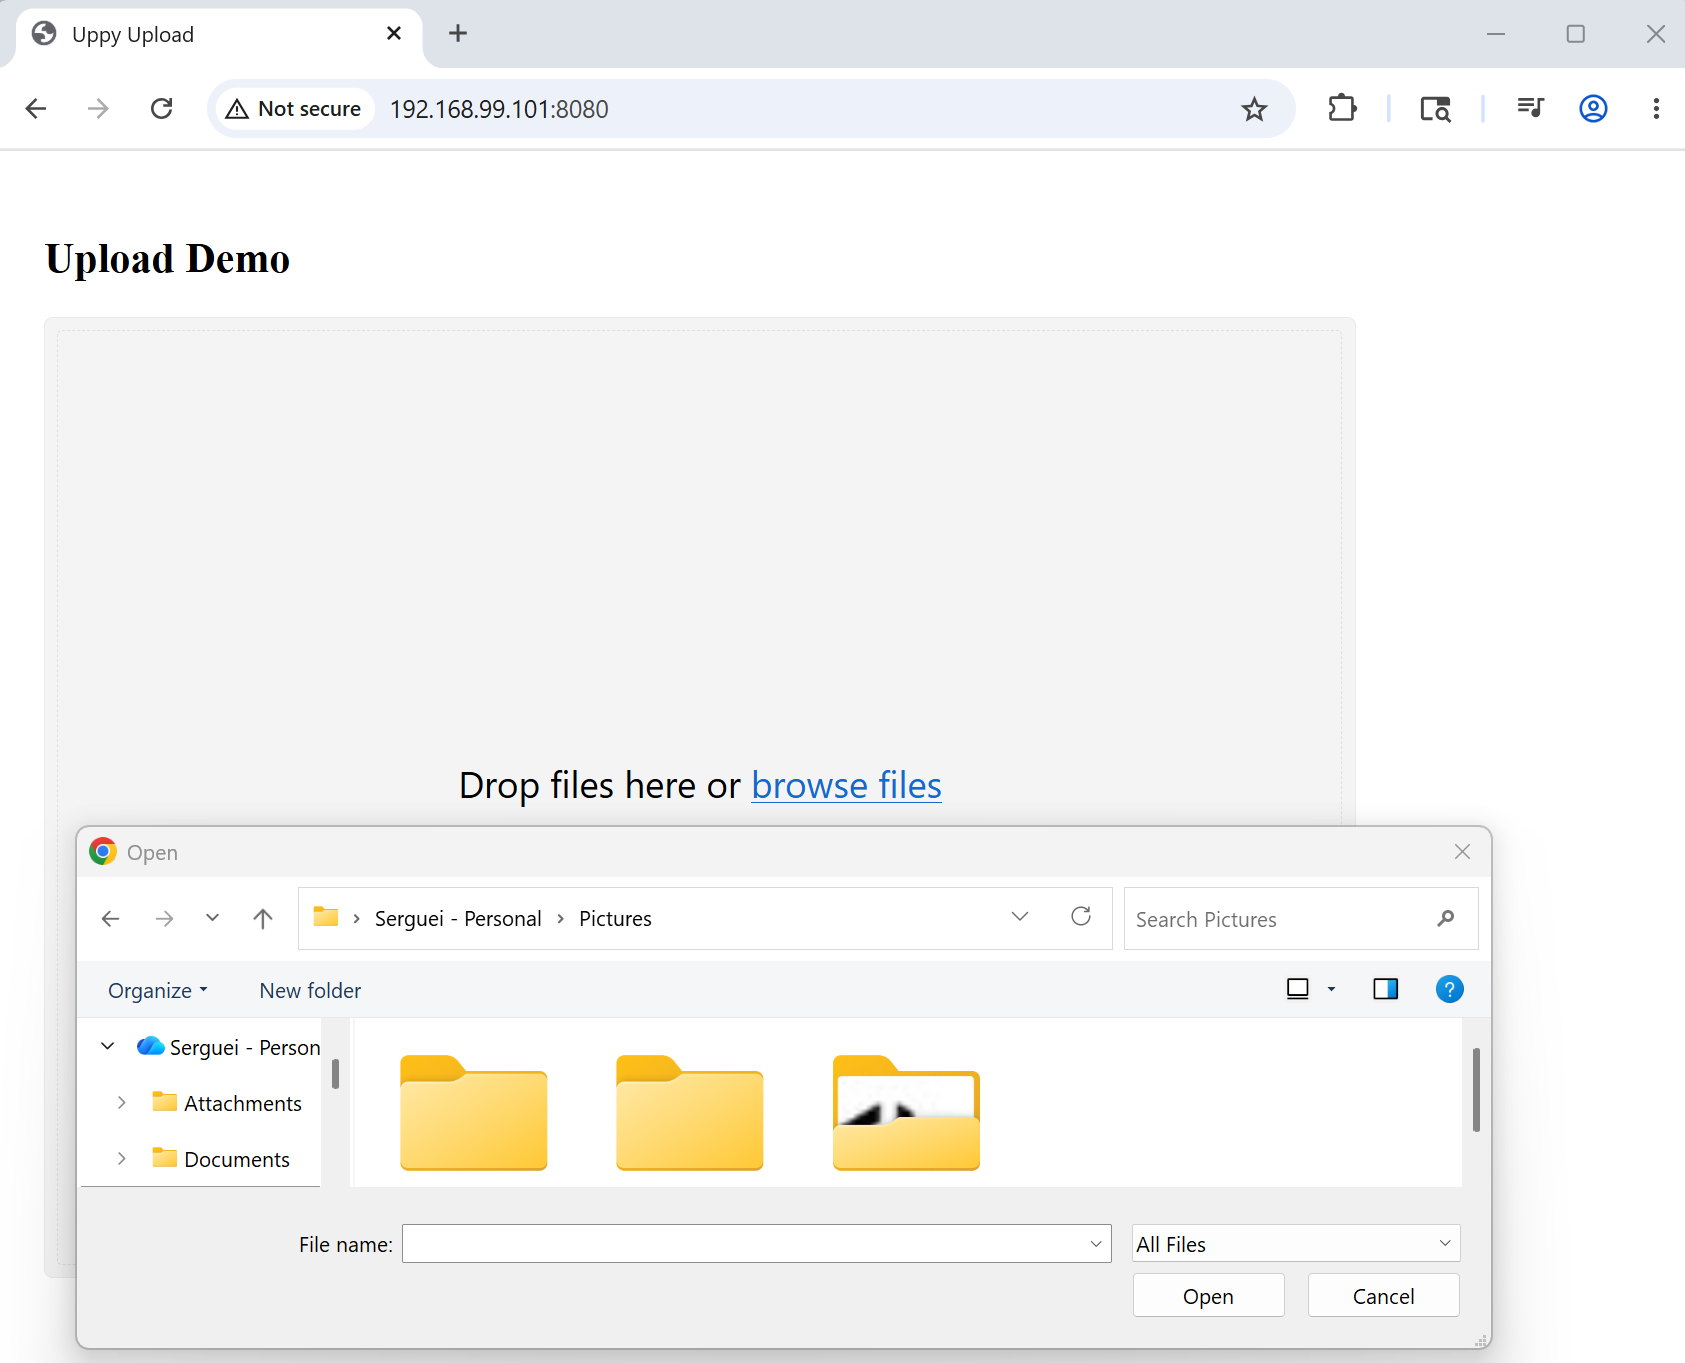
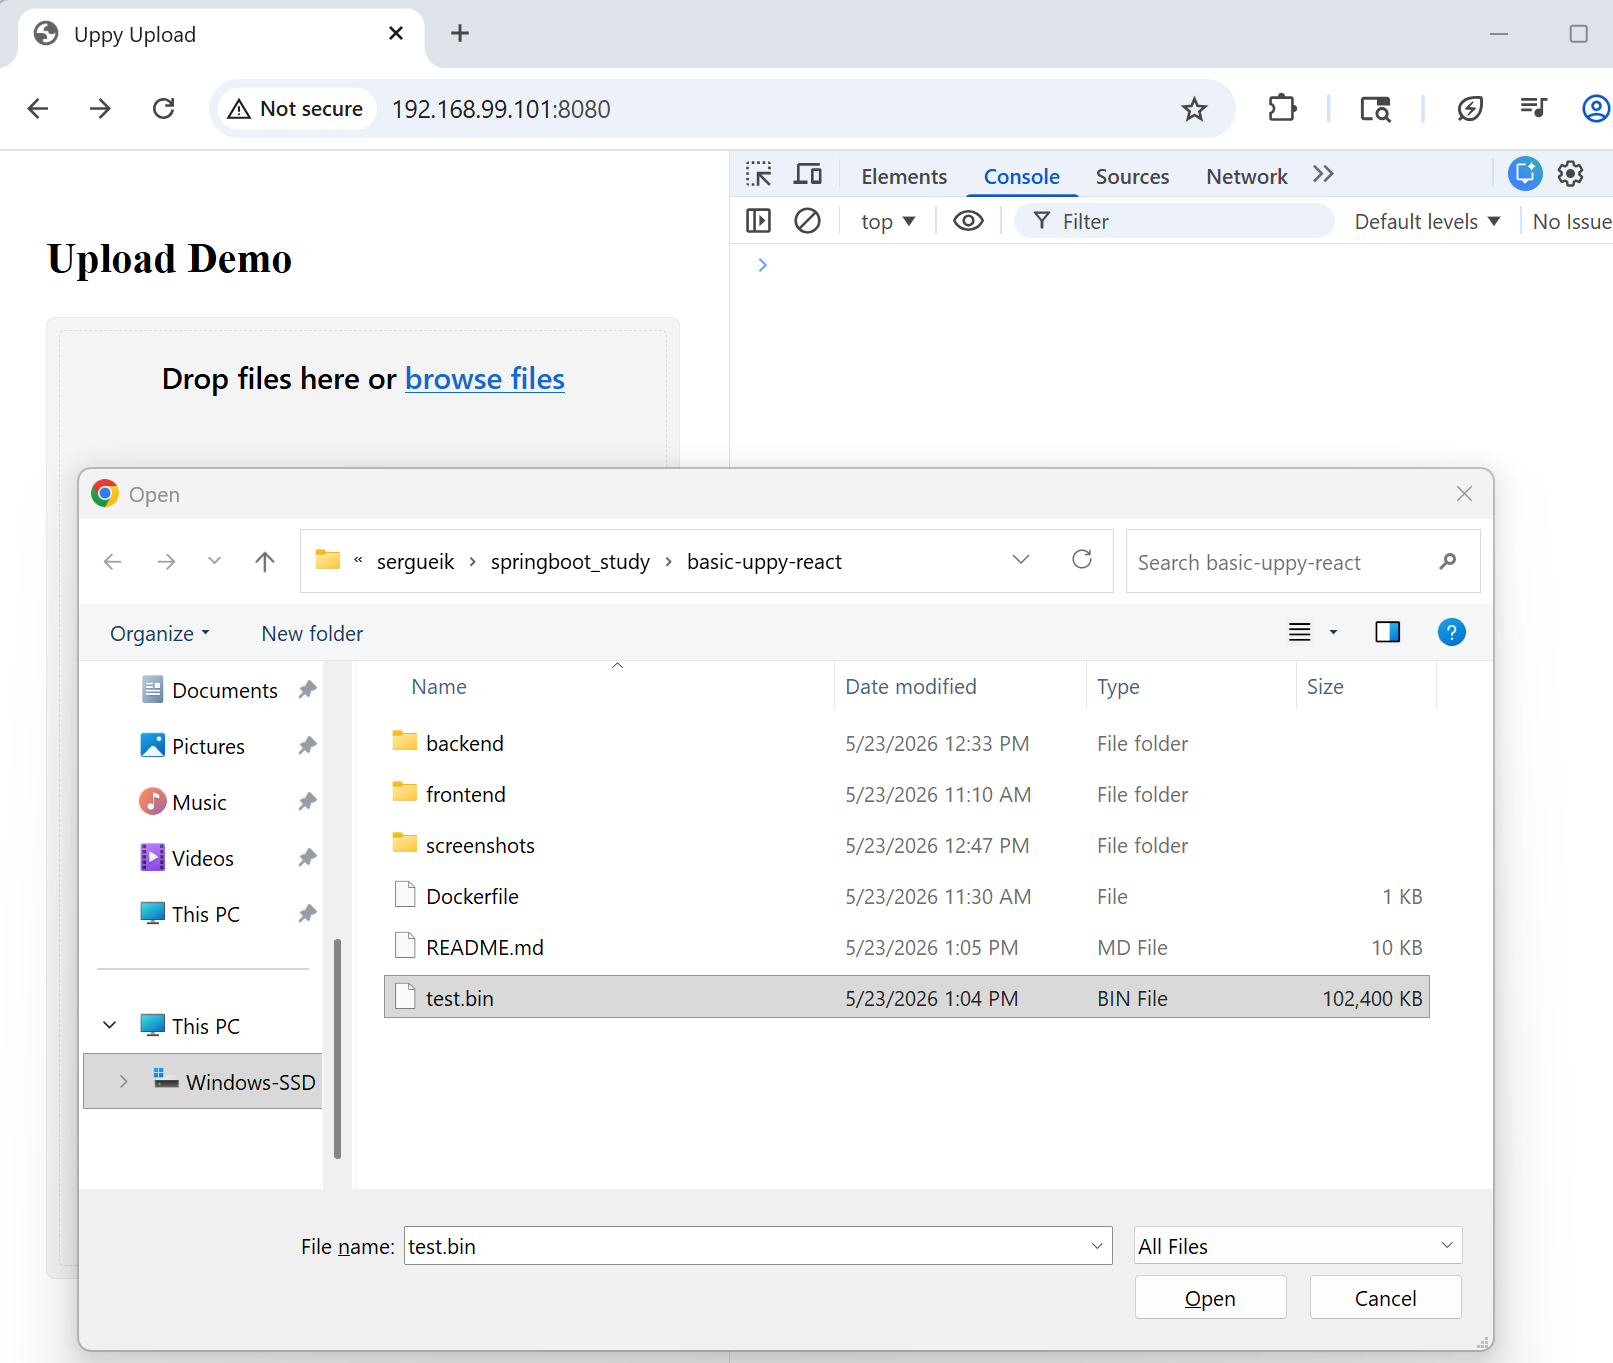
intermediate revision - fixed backend response, added heavy file test step

diff --git a/basic-uppy-react/frontend/src/App.jsx b/basic-uppy-react/frontend/src/App.jsx
@@ -27,7 +27,8 @@ export default function App() {
       endpoint: '/uploadMultipleFiles',
       fieldName: 'files',
       formData: true,
-      bundle: true
+      bundle: true,
+      responseType: 'json'
     })
 
     return () => uppy.destroy()

diff --git a/basic-uppy-react/backend/src/main/java/example/controller/FileUploadController.java b/basic-uppy-react/backend/src/main/java/example/controller/FileUploadController.java
@@ -1,17 +1,26 @@
 package example.controller;
+
 /**
- * Copyright 2023-2024 Serguei Kouzmine
+ * Copyright 2023,2024,2026 Serguei Kouzmine
  */
 
+import java.util.ArrayList;
 import java.util.Arrays;
+import java.util.HashMap;
+import java.util.List;
+import java.util.Map;
 import java.util.stream.Collectors;
 
 import org.slf4j.Logger;
 import org.slf4j.LoggerFactory;
 import org.springframework.beans.factory.annotation.Autowired;
+import org.springframework.http.MediaType;
 import org.springframework.web.bind.annotation.GetMapping;
 import org.springframework.web.bind.annotation.PostMapping;
+import org.springframework.web.bind.annotation.RequestMapping;
+import org.springframework.web.bind.annotation.RequestMethod;
 import org.springframework.web.bind.annotation.RequestParam;
+import org.springframework.web.bind.annotation.ResponseBody;
 import org.springframework.web.bind.annotation.RestController;
 import org.springframework.web.multipart.MultipartFile;
 
@@ -51,14 +60,21 @@ public class FileUploadController {
 		return fileName;
 	}
 
-	@PostMapping("/uploadMultipleFiles")
-	public String uploadMultipleFiles(@RequestParam("files") MultipartFile[] files) {
+	@RequestMapping(value = "/uploadMultipleFiles", method = RequestMethod.POST, produces = MediaType.APPLICATION_JSON_VALUE)
+	@ResponseBody
+	public Map<String, Object> uploadMultipleFiles(@RequestParam("files") MultipartFile[] files) {
+
 		logger.info("upload " + files.length + " files: "
 				+ Arrays.asList(files).stream().map(file -> file.getOriginalFilename()).collect(Collectors.toList()));
 		// no longer showing the uploaded files urls
 		Arrays.asList(files).stream().forEach(file -> uploadFile(file));
-		String listing = Utils.listDirecroryFiles(fileStorageService.getUploadDir());
+		String listing = Utils.listDirecroryFiles(fileStorageService.getUploadDir(), false);
 		logger.info("Listing: {}", listing);
-		return listing;
+		String delimiter = ",";
+		Map<String, Object> response = new HashMap<>();
+		response.put("success", true);
+		response.put("uploaded", Arrays.asList(listing.split(delimiter)));
+		response.put("url", "/upload-success");
+		return response;
 	}
 }

diff --git a/basic-uppy-react/backend/src/main/java/example/utils/Utils.java b/basic-uppy-react/backend/src/main/java/example/utils/Utils.java
@@ -3,6 +3,8 @@ package example.utils;
 import java.io.File;
 import java.io.IOException;
 import java.io.InputStream;
+import java.util.Arrays;
+import java.util.stream.Collectors;
 
 public class Utils {
 
@@ -21,17 +23,25 @@ public class Utils {
 		return listDirecroryFiles("c:/temp/upload");
 	}
 
+	public static String listDirecroryFiles(String uploadDir) {
+		return listDirecroryFiles(uploadDir, true);
+	}
+
 	// origin:
 	// http://www.java2s.com/ref/java/java-file-list-all-files-and-directories-under-a-folder.html
-	public static String listDirecroryFiles(String uploadDir) {
+	public static String listDirecroryFiles(String uploadDir, boolean format) {
 		String line = null;
+		String delimiter = ",";
 		// NOTE: not checking that directory exists. This is just minimal demo
 		// example
 		File dir = new File(uploadDir);
 		if (dir.exists()) {
 			File[] listFiles = dir.listFiles();
 			if (listFiles.length > 0) {
-				return formattedList(listFiles);
+				return format ? formattedList(listFiles)
+						: Arrays.asList(listFiles).stream().map(o -> o.getName())
+								.collect(Collectors.joining(delimiter));
+				// Arrays.join
 			} else {
 				return "";
 			}

diff --git a/basic-uppy-react/README.md b/basic-uppy-react/README.md
@@ -2,11 +2,15 @@
 https://github.com/judsonc/react-upload-uppy
 https://uppy.io/
 https://github.com/transloadit/uppy with over 10K commits
+
 ### Usage
 
 
-```
-  docker build -t example -f Dockerfile  .
+```sh
+docker pull node:22.18.0-alpine
+docker pull maven:3.9.5-eclipse-temurin-11-alpine
+docker pull eclipse-temurin:11-jre-alpine
+docker build -t example -f Dockerfile .
 ```
 ```text
 Sending build context to Docker daemon  20.72MB
@@ -190,77 +194,70 @@ Removing intermediate container c80e26adccc4
 ```
 docker run -d -p 8080:8080 --name example example
 ```
+```sh
+dd if=/dev/urandom of=test.bin bs=1M count=100
 ```
[1 lines of base64/hex data omitted]
-
+```text
+100+0 records in
+100+0 records out
[phone redacted] bytes (105 MB, 100 MiB) copied, 0.13182 s, 795 MB/s
 ```
-
 ![execute](screenshots/capture-app.png)
 
-The error to debug:
-![execute](screenshots/capture-upload-error.png)
-```text
-[Uppy] [11:47:28] @uppy/xhr-upload expects a JSON response (with a `url` property). To parse non-JSON responses, use `getResponseData` to turn your response into JSON.
-```
+![execute](screenshots/capture-upload-progress.png)
+The success on the frontend:
+![execute](screenshots/capture-upload-success.png)
+
 The application console log:
 ```text
-2026-05-23 15:47:31.783  INFO 1 --- [nio-8080-exec-7] example.controller.FileUploadController  : upload 1 files: [test.txt]
-2026-05-23 15:47:31.787  INFO 1 --- [nio-8080-exec-7] example.controller.FileUploadController  : upload file: test.txt
-2026-05-23 15:47:31.788  INFO 1 --- [nio-8080-exec-7] example.service.FileStorageService       : UploadDir defined: /tmp/upload
-2026-05-23 15:47:31.797  INFO 1 --- [nio-8080-exec-7] example.service.FileStorageService       : UploadDir: /tmp/upload
-2026-05-23 15:47:31.803  INFO 1 --- [nio-8080-exec-7] example.controller.FileUploadController  : Listing: test.txt
-
[phone redacted]:07:48.667 DEBUG 1 --- [io-8080-exec-10] o.s.web.servlet.DispatcherServlet        : POST "/uploadMultipleFiles", parameters={multipart}
[phone redacted]:07:52.889 DEBUG 1 --- [io-8080-exec-10] s.w.s.m.m.a.RequestMappingHandlerMapping : Mapped to example.controller.FileUploadController#uploadMultipleFiles(MultipartFile[])
[phone redacted]:07:52.891  INFO 1 --- [io-8080-exec-10] example.controller.FileUploadController  : upload 1 files: [test.bin]
[phone redacted]:07:52.893  INFO 1 --- [io-8080-exec-10] example.controller.FileUploadController  : upload file: test.bin
[phone redacted]:07:53.398  INFO 1 --- [io-8080-exec-10] example.service.FileStorageService       : UploadDir: /tmp/upload
[phone redacted]:07:53.400  INFO 1 --- [io-8080-exec-10] example.controller.FileUploadController  : Listing: test.bin,test.txt
[phone redacted]:07:53.403 DEBUG 1 --- [io-8080-exec-10] m.m.a.RequestResponseBodyMethodProcessor : Using 'application/json', given [*/*] and supported [application/json]
[phone redacted]:07:53.410 DEBUG 1 --- [io-8080-exec-10] m.m.a.RequestResponseBodyMethodProcessor : Writing [{success=true, uploaded=[test.bin], url=/upload-success}]
[phone redacted]:07:53.442 DEBUG 1 --- [io-8080-exec-10] o.s.web.servlet.DispatcherServlet        : Completed 200 OK
 ```
 and the file is present on container:
 ```sh
-docker exec -it example ls /tmp/upload
+docker exec -it example ls -hl /tmp/upload/test.bin
 ```
-```text
-test.txt
 ```
-```sh
-
-docker exec -it example sha256sum /tmp/upload/test.txt
-```
-```text
-6b4a40d5711a17f884838a652a8b398b3e7bcaacc94c6c5ee801b585b19ead3f  /tmp/upload/test.txt
+-rw-r--r-- 1 root root 100M May 23 17:07 /tmp/upload/test.bin
 ```
 ```sh
-sha256sum.exe  test.txt
+docker exec -it example sha256sum /tmp/upload/test.bin
 ```
 ```text
-6b4a40d5711a17f884838a652a8b398b3e7bcaacc94c6c5ee801b585b19ead3f *test.txt
+e37c10c86f56c0ca4778727e8bc8cdc7e428a68ac2daaddfd73429d134a7dd3e  /tmp/upload/test.bin
 ```
-> NOTE: the "test.txt" is small - but ready to test file which woild warrant chunking
+```sh
+sha256sum.exe test.bin
+```
+```text
+e37c10c86f56c0ca4778727e8bc8cdc7e428a68ac2daaddfd73429d134a7dd3e *test.bin
+```
+> NOTE: the "test.bin" is sufficiently large to test file chunking
 
-
-> NOTE: the app is highly version sensitive:
-
-![execute](screenshots/capture-error.png)
-
+### Cleanup
+```sh
+docker stop example; docker container prune -f ; docker image prune -f
+```
 ### Background
 
+__React__ is very unbeleivably complex - age?. Over the years.
+
+creating the frontend from scratch with __Vite__ __React__ *template* is what is recmmended instead of manually assembling:
+
+  * `package.json`
+  * `Babel`
+  * `webpack`
+  * `React` bootstrap files
+  * `ESLint`
+  * `build config`
 
 
-React is very complex. Over the years.
-
-creating the frontend from scratch with Vite React template is what is recmmended instead of manually assembling:
-
-`package.json`
-`Babel`
-`webpack`
-`React` bootstrap files
-`ESLint`
-`build config`
-
-
-However this seems seriously feels backwards if you come from:
-
-Java
-Maven
-C/C++
-PowerShell
-traditional build systems
-
-where source layout is explicit and inspectable
+However this seems seriously feels backwards if you come from traditional build systems where source layout is explicit and inspectable. One has to accept it.
 